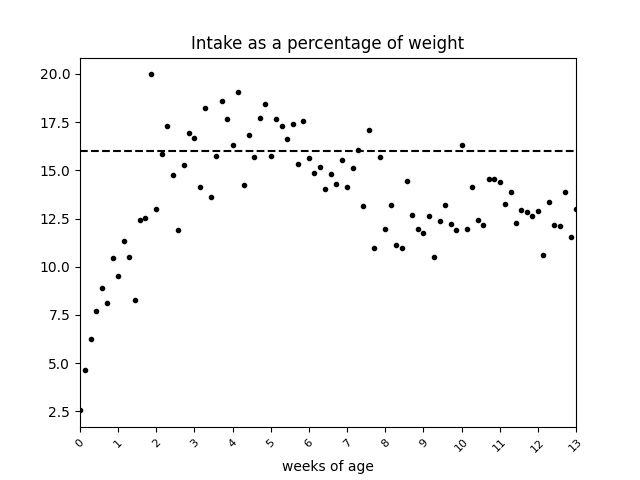
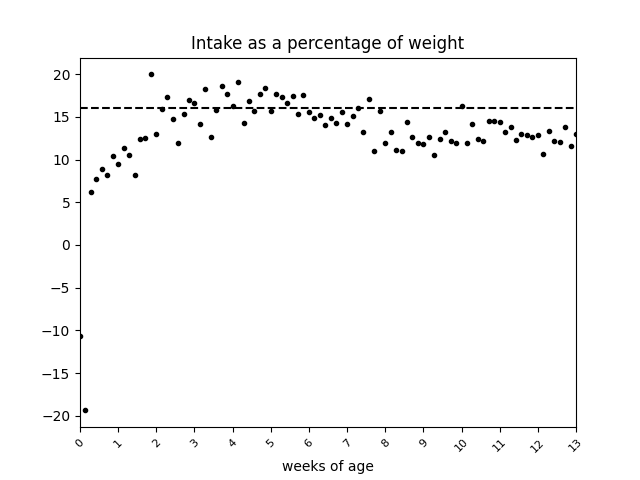
distinguish between official and unofficial weights

diff --git a/datita.py b/datita.py
@@ -61,7 +61,7 @@ def read_percentiles(percentile_type, gender, n_months):
 
     f = open('percentiles_{type}_{gender}.txt'.format(type=percentile_type, gender=gender), 'r')
     lines = f.readlines()
-
+    
     if percentile_type == 'weight-length':
         all_lengths = numpy.zeros(len(lines))
         max_length = math.ceil(n_months) + 1
@@ -148,13 +148,17 @@ def parse_feedings(lines_feeding):
         
 
 def parse_weights(lines_weights, month_dates):
+    # I distinguish between "official weights" (from doctor visits)
+    # and weights we take at home (on the Hatch, always in clothes and a clean diaper)
 
     wdates_all = []
     weights_all = []
 
+    data_weight_official = []
+
     for i in range(len(lines_weights)):
         data = lines_weights[i].split(',')
-        wdates_all.append(parse_date(data[1]).date())
+        date = parse_date(data[1]).date()
         
         weight = data[4]
         lboz = weight.split(' ')
@@ -163,7 +167,13 @@ def parse_weights(lines_weights, month_dates):
             oz = 0.
         else:
             oz = float(lboz[1][:-2])
-        weights_all.append(lb + oz/16.)
+
+        if len(data[8]) > 1:
+            date = datetime.combine(date, time(0, 0))
+            data_weight_official.append([date, lb + oz/16.])
+        else: 
+            wdates_all.append(parse_date(data[1]).date())
+            weights_all.append(lb + oz/16.)
 
     # calculate one weight per day
     data_weight = [[] for i in range(len(all_dates)+1)] 
@@ -180,7 +190,7 @@ def parse_weights(lines_weights, month_dates):
             date = datetime.combine(all_dates[i], time(0, 0))
             data_weight[i] = [date, data_weight[i-1][1]]
 
-    return data_weight
+    return data_weight, data_weight_official
 
 
 def parse_lengths(lines_lengths, month_dates):
@@ -684,63 +694,60 @@ def plot_percentiles_weight_vs_length(gender, data_weight, data_length, n_months
     plt.gca().set_ylim(bottom=4)
     plt.xlabel('inches')
     plt.ylabel('pounds')
-
-    j = 0
     
-    for i in range(len(data_length)):
-        length_date = data_length[i][0]
-    
-        while data_weight[j][0] < length_date:
-            j = j + 1
-        matching_weight = data_weight[j][1]
-        plt.plot(data_length[i][1], data_weight[j][1], 'ko')
+    for i in range(len(data_length)-1):
+        plt.plot(data_length[i][1], data_weight[i][1], 'ko')
 
     plt.gca().legend(loc='best')
     plt.savefig('weight-length.png')
 
 
-def plot_percentiles(measurement, gender, measurement_data, n_months):
+def plot_percentiles(measurement, gender, measurement_data, n_months, official=True):
     
-    percentile_data = read_percentiles(measurement, gender, n_months)
-    percentiles = [2, 5, 10, 25, 50, 75, 90, 95, 98]
-    percentile_colors = numpy.arange(0.1, 1.0, 0.1)
+    plt.figure(measurement)
 
-    plt.figure()
+    if official: 
+        percentile_data = read_percentiles(measurement, gender, n_months)
+        percentiles = [2, 5, 10, 25, 50, 75, 90, 95, 98]
+        percentile_colors = numpy.arange(0.1, 1.0, 0.1)
 
-    for i in reversed(range(9)):
-        width = 2
-        if i in [1, 3, 4, 5, 7]:
-            label = '{percentile}%ile'.format(percentile=percentiles[i])
-            linestyle = '-'
-            alpha = 1
-        else:
-            label = None
-            linestyle = '--'
-            alpha = 0.2
-        plt.plot(month_dates, percentile_data[i], color=colormap(percentile_colors[i]), linestyle=linestyle, linewidth=width, label=label, alpha=alpha)
+        for i in reversed(range(9)):
+            width = 2
+            if i in [1, 3, 4, 5, 7]:
+                label = '{percentile}%ile'.format(percentile=percentiles[i])
+                linestyle = '-'
+                alpha = 1
+            else:
+                label = None
+                linestyle = '--'
+                alpha = 0.2
+            plt.plot(month_dates, percentile_data[i], color=colormap(percentile_colors[i]), linestyle=linestyle, linewidth=width, label=label, alpha=alpha)
 
-    if measurement == 'weight':
-        plt.title('Weight')
-        plt.plot([birthdate, last_date], [measurement_data[0][1], measurement_data[0][1] + 1.0/16.*n_days], 'k--', label='1oz per day')
-        size = 1
-        plt.gca().set_ylim(bottom=0)
-        plt.ylabel('pounds')
-    elif measurement == 'length':
-        plt.title('Length')
-        size = 10
-        plt.gca().set_ylim(bottom=16)
-        plt.ylabel('inches')
-    elif measurement == 'head':
-        plt.title('Head')
-        size = 10
-        plt.gca().set_ylim(bottom=12)
-        plt.ylabel('inches')
+        if measurement == 'weight':
+            plt.title('Weight')
+            plt.gca().set_ylim(bottom=0, top=percentile_data[8][-1])
+            plt.ylabel('pounds')
+        elif measurement == 'length':
+            plt.title('Length')
+            plt.gca().set_ylim(bottom=16)
+            plt.ylabel('inches')
+        elif measurement == 'head':
+            plt.title('Head')
+            plt.gca().set_ylim(bottom=12)
+            plt.ylabel('inches')
+    
+        week_ticks(measurement_data, label_type)
+        plt.gca().legend(loc='best')
+
+        markerstyle = 'o'
+        color = 'k'
+    else: 
+        markerstyle = '.'
+        color = 'silver'
     
     for i in range(len(measurement_data)):
-        plt.plot(measurement_data[i][0], measurement_data[i][1], 'ko')
-
-    plt.gca().legend(loc='best')
-    week_ticks(measurement_data, label_type)
+        plt.plot(measurement_data[i][0], measurement_data[i][1], markerstyle, color=color)
+    
     plt.savefig('{measurement}.png'.format(measurement=measurement))
 
 
@@ -782,7 +789,7 @@ if __name__ == '__main__':
     data_diapers = parse_dirty_diapers(lines_diapers)
 
     [n_months, month_dates] = define_months()
-    data_weight = parse_weights(lines_weights, month_dates)
+    [data_weight, data_weight_official] = parse_weights(lines_weights, month_dates)
     data_length = parse_lengths(lines_lengths, month_dates)
     data_head = parse_head(head_filename)
     
@@ -790,9 +797,10 @@ if __name__ == '__main__':
     plot_sleep_24(data_sleep_24)
     plot_feeding(data_feeding)
     plot_diapers(data_diapers)
-    plot_percentiles('weight', gender, data_weight, n_months)
+    plot_percentiles('weight', gender, data_weight, n_months, official=False)
+    plot_percentiles('weight', gender, data_weight_official, n_months)
     plot_percentiles('length', gender, data_length, n_months)
     plot_percentiles('head', gender, data_head, n_months)
-    plot_percentiles_weight_vs_length(gender, data_weight, data_length, data_length[-2][1])
+    plot_percentiles_weight_vs_length(gender, data_weight_official, data_length, data_length[-2][1])
 
     plt.show()
